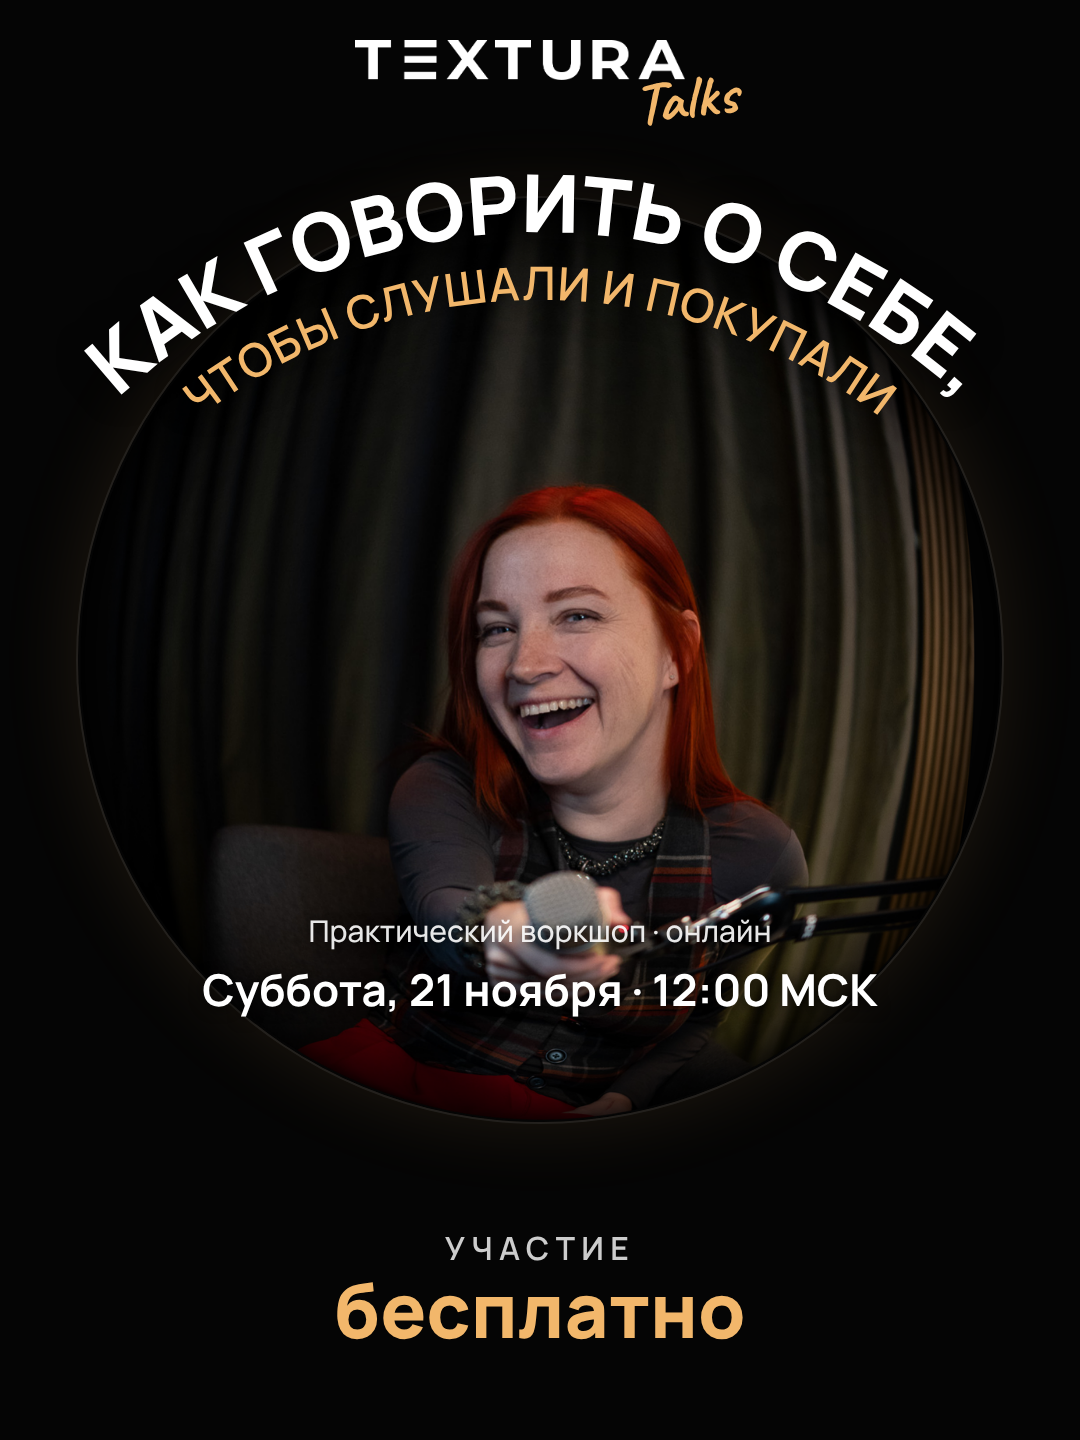
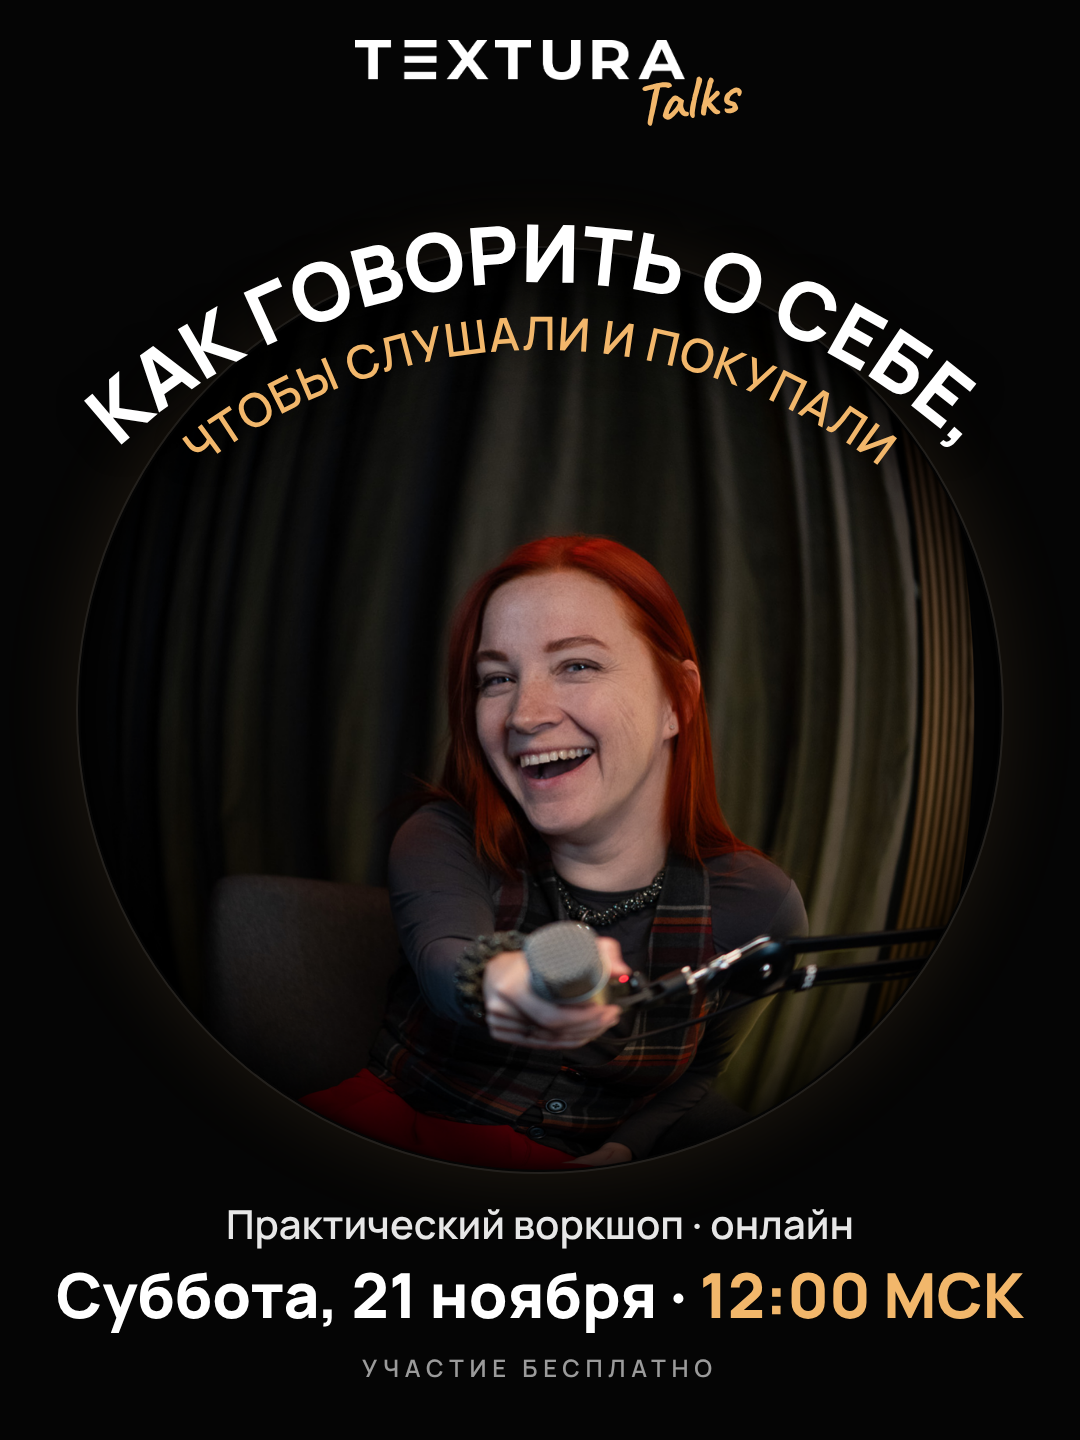
Workshop cover: lower block, bigger date line, small free note
Claude-Session: https://claude.ai/code/session_01EUhV7va23MNh7ydDpeuyX7

Changed region(s): [[0.1833, 0.3125, 0.9167, 0.8125], [0.0611, 0.125, 0.9167, 0.4375], [0.0306, 0.8438, 0.9472, 0.9688]]

diff --git a/textura-carousel/workshop.html b/textura-carousel/workshop.html
@@ -122,12 +122,12 @@
 </head>
 <body>
 <section class="slide" style="background:#050505;">
-  <div style="position:absolute; left:80px; top:200px; width:920px; height:920px; background:url(photos/w-fisheye.png) center/contain no-repeat;"></div>
-  <div style="position:absolute; left:78px; top:198px; width:924px; height:924px; border-radius:50%; box-shadow:0 0 0 2px rgba(255,255,255,.08), 0 0 80px rgba(242,183,107,.12);"></div>
+  <div style="position:absolute; left:80px; top:250px; width:920px; height:920px; background:url(photos/w-fisheye.png) center/contain no-repeat;"></div>
+  <div style="position:absolute; left:78px; top:248px; width:924px; height:924px; border-radius:50%; box-shadow:0 0 0 2px rgba(255,255,255,.08), 0 0 80px rgba(242,183,107,.12);"></div>
   <div style="position:absolute; left:0; right:0; top:40px; z-index:3; text-align:center;">
     <div style="position:relative; display:inline-block; left:-20px;"><img src="photos/textura-logo.png" style="width:330px; display:block;" alt="TEXTURA"><span style="position:absolute; right:-52px; top:28px; font-family:Caveat, cursive; font-weight:700; font-size:60px; color:#F2B76B; transform:rotate(-7deg); line-height:1;">Talks</span></div>
   </div>
-  <svg viewBox="0 0 1080 1440" style="position:absolute; inset:0; width:1080px; height:1440px; z-index:2; overflow:visible;">
+  <svg viewBox="0 0 1080 1440" style="position:absolute; left:0; top:50px; width:1080px; height:1440px; z-index:2; overflow:visible;">
     <defs>
       <path id="arc1" d="M 60 460 A 620 620 0 0 1 1020 460"/>
       <path id="arc2" d="M 112.6 502.6 A 552 552 0 0 1 967.4 502.6"/>
@@ -135,13 +135,10 @@
     <text style="font-family:Manrope; font-weight:800; font-size:80px; fill:#fff; filter:drop-shadow(0 4px 14px rgba(0,0,0,.5));"><textPath href="#arc1" startOffset="50%" text-anchor="middle">КАК ГОВОРИТЬ О&#160;СЕБЕ,</textPath></text>
     <text style="font-family:Manrope; font-weight:600; font-size:46px; letter-spacing:1px; fill:#F2B76B; filter:drop-shadow(0 4px 14px rgba(0,0,0,.6));"><textPath href="#arc2" startOffset="50%" text-anchor="middle">ЧТОБЫ СЛУШАЛИ И&#160;ПОКУПАЛИ</textPath></text>
   </svg>
-  <div style="position:absolute; left:0; right:0; top:910px; z-index:3; text-align:center; text-shadow:0 2px 14px rgba(0,0,0,.85);">
-    <div style="font-weight:500; font-size:30px; color:rgba(255,255,255,.9);">Практический воркшоп · онлайн</div>
-    <div style="margin-top:8px; font-weight:700; font-size:44px;">Суббота, 21 ноября · 12:00 МСК</div>
-  </div>
-  <div style="position:absolute; left:0; right:0; bottom:90px; z-index:3; text-align:center;">
-    <div style="font-weight:600; font-size:32px; letter-spacing:.2em; text-transform:uppercase; color:rgba(255,255,255,.8);">Участие</div>
-    <div style="font-weight:800; font-size:76px; line-height:1.05; color:var(--accent);">бесплатно</div>
+  <div style="position:absolute; left:0; right:0; top:1196px; z-index:3; text-align:center;">
+    <div style="font-weight:600; font-size:40px; color:rgba(255,255,255,.9);">Практический воркшоп · онлайн</div>
+    <div style="margin-top:10px; font-weight:800; font-size:62px; line-height:1.1;">Суббота, 21 ноября · <span style="color:var(--accent);">12:00 МСК</span></div>
+    <div style="margin-top:22px; font-weight:600; font-size:24px; letter-spacing:.24em; text-transform:uppercase; color:rgba(255,255,255,.6);">Участие бесплатно</div>
   </div>
 </section>
 <section class="slide"><div class="photo" style="top:900px; background-image:url(photos/w-listen.jpg); background-position:50% 45%;"></div><div class="logo"><img class="lg" src="photos/textura-logo.png" alt="TEXTURA"><span class="talks">Talks</span></div>
